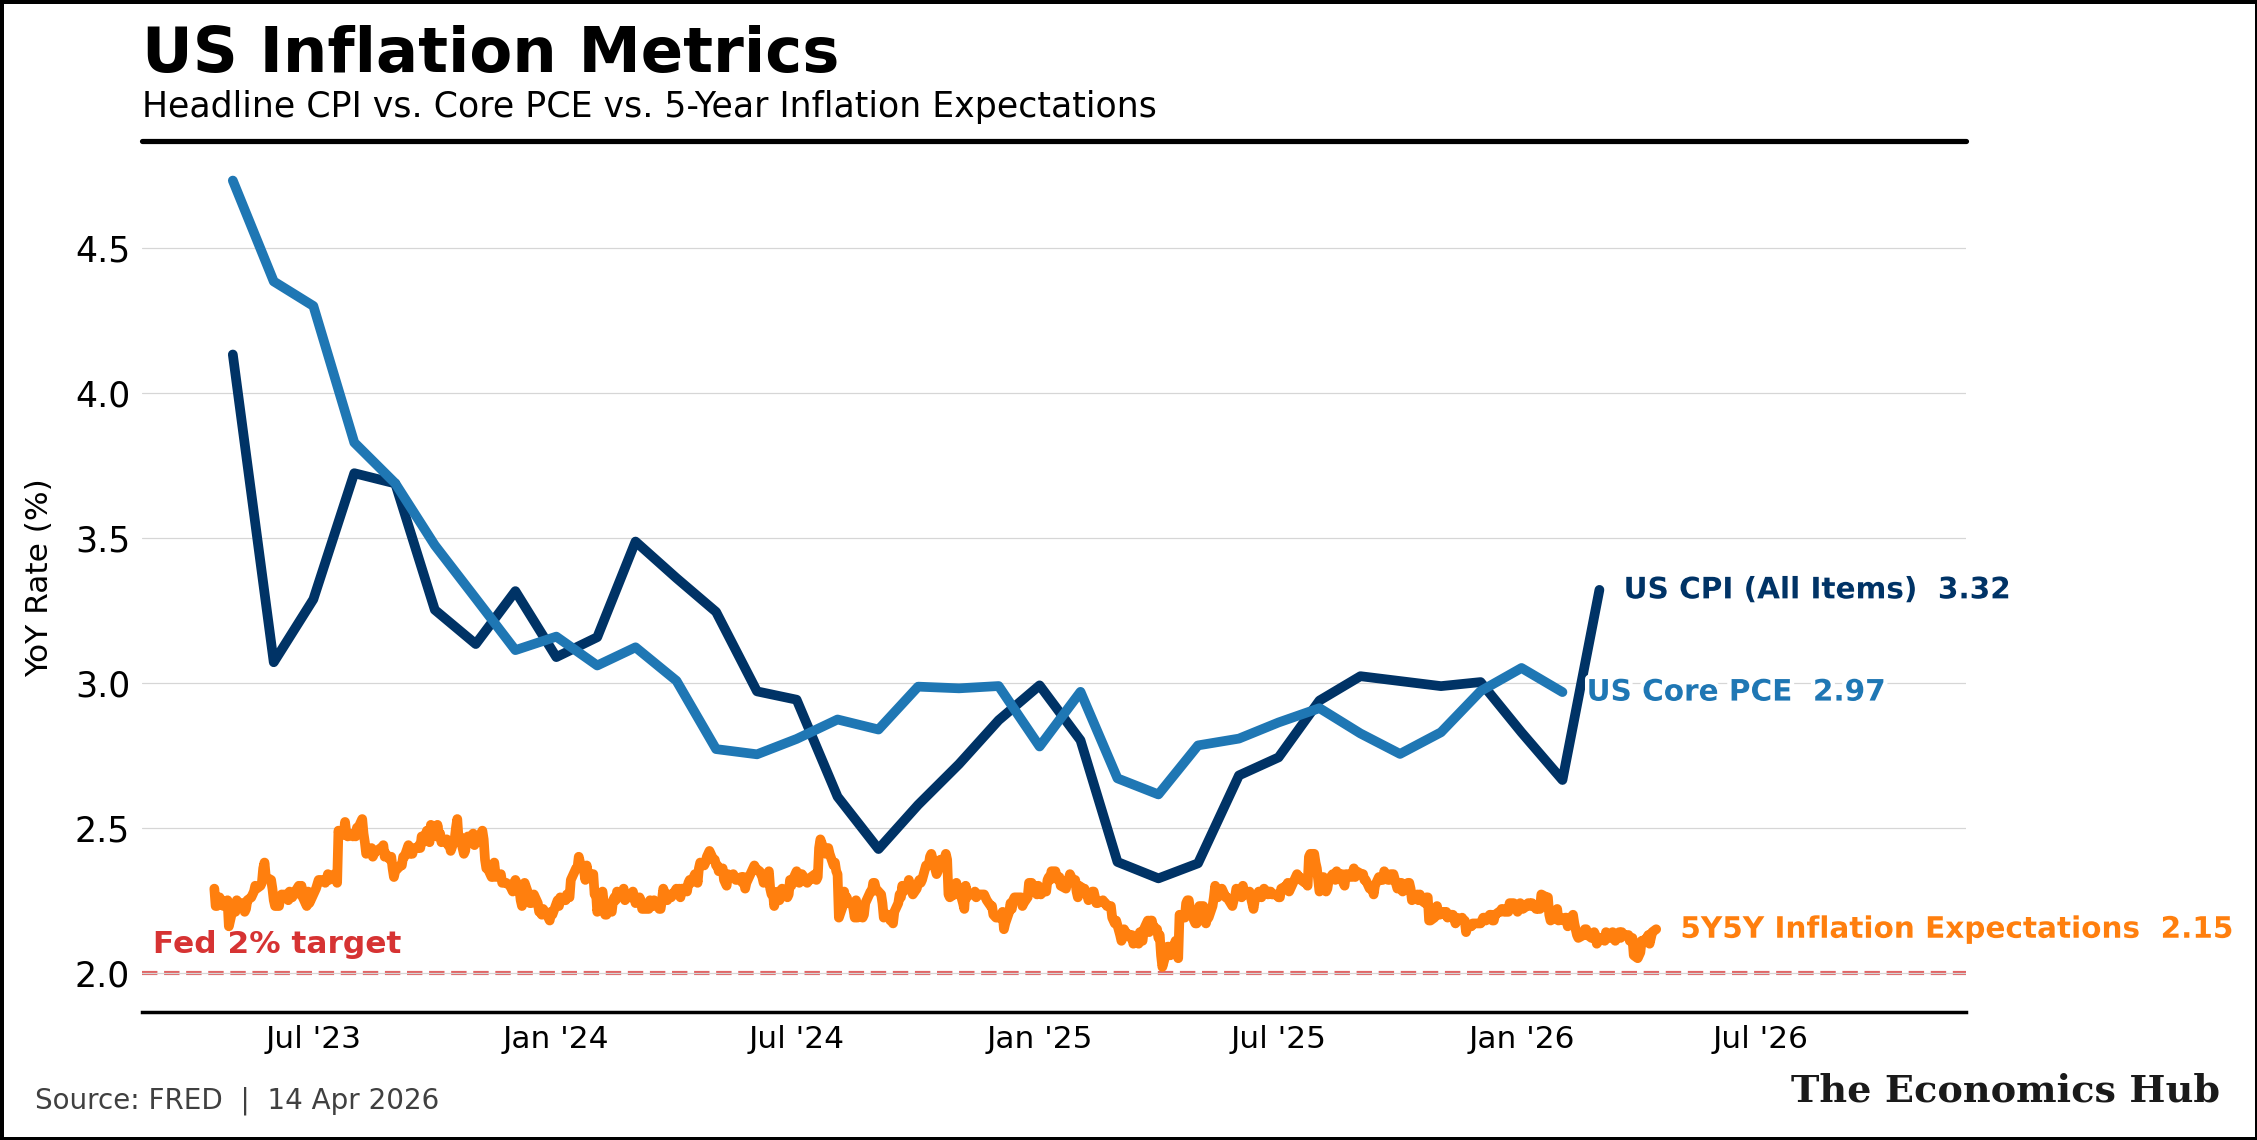
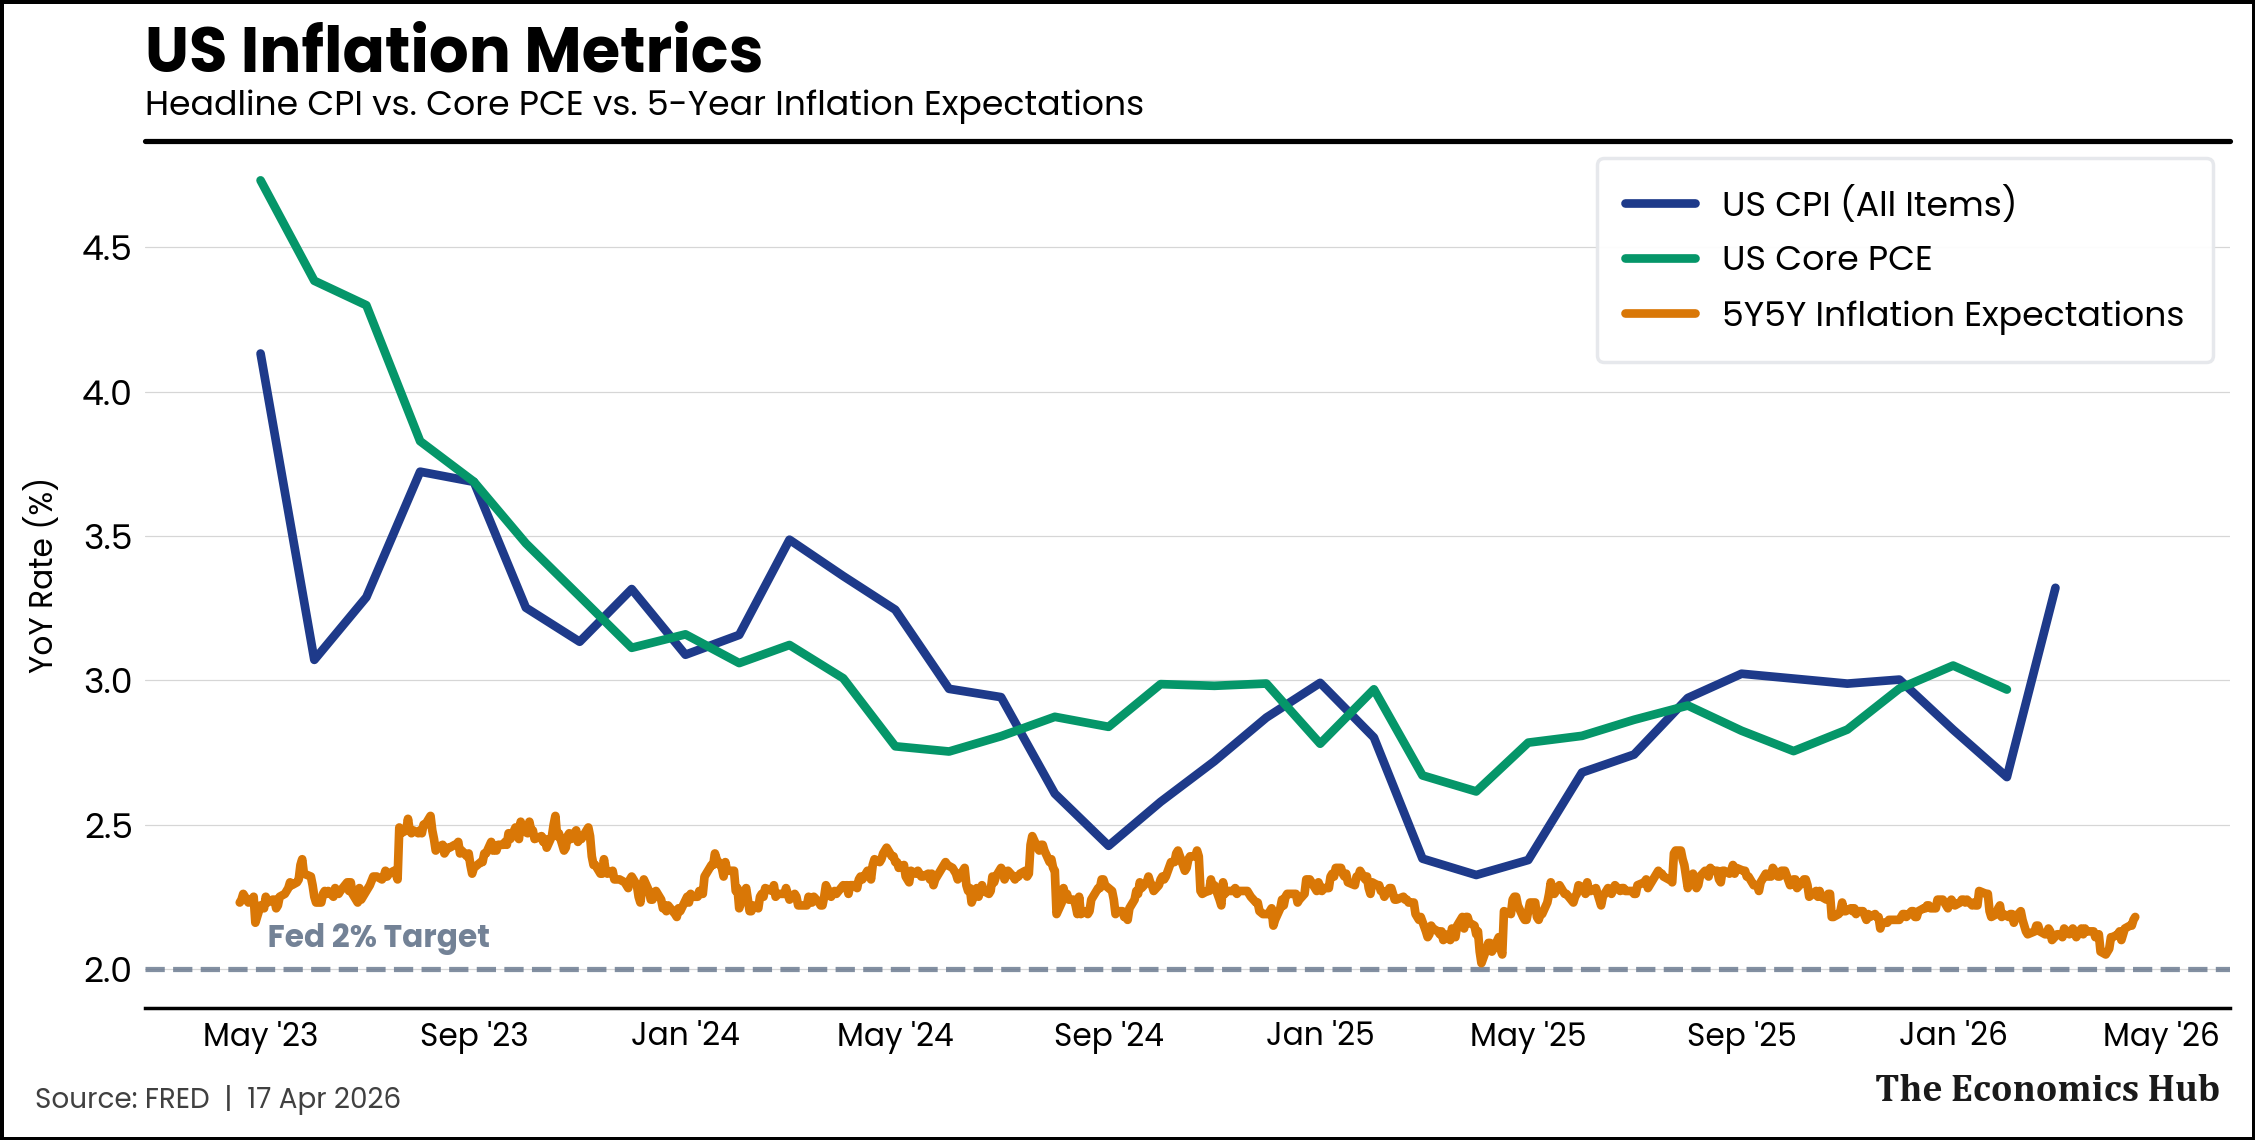
fix macro chart

diff --git a/generate_macro.py b/generate_macro.py
@@ -368,34 +368,60 @@ def _add_end_label(ax, dates, values, name, color):
 
 def chart_inflation(engine, output_dir, mode="dashboard"):
     EconStyle.apply_global_style()
-    # Use the standard wide template instead of the cramped 1x2 subplot
     fig, ax1 = EconStyle.create_figure(size="wide")
     fig.patch.set_linewidth(2)
     fig.patch.set_edgecolor('#000000')
 
+    # 1. Harmonized Color Palette
+    # Deep Blue (Headline), Emerald Green (Core PCE), Amber (Expectations)
+    # These colors are distinct, colorblind-friendly, and don't clash.
+    custom_colors = {
+        "us_cpi_yoy": "#1E3A8A",       
+        "us_core_pce": "#059669",      
+        "us_inflation_exp": "#D97706"  
+    }
+
+    first_date = None
+
     for ind_id in ["us_cpi_yoy", "us_core_pce", "us_inflation_exp"]:
+        if ind_id not in MACRO_INDICATORS: continue
         ind = MACRO_INDICATORS[ind_id]
         series = engine.get_transformed(ind_id)
         if series.empty: continue
+        
         dates, vals = series.index.to_pydatetime().tolist(), series.values
-        # Increased linewidth to 2.8 for better quality/visibility
-        ax1.plot(dates, vals, color=ind["color"], linewidth=2.8, solid_capstyle="round", zorder=3)
-        _add_end_label(ax1, dates, vals, ind["name"], ind["color"])
+        if first_date is None: first_date = dates[0]
 
-    # Target line styling
-    ax1.axhline(y=2.0, color=EconStyle.NEGATIVE, linewidth=1.2, linestyle="--", alpha=0.6, zorder=1)
-    ax1.text(ax1.get_xlim()[0], 2.05, " Fed 2% target", fontsize=9, fontweight="bold", color=EconStyle.NEGATIVE, alpha=0.8, va="bottom")
+        # Override the global dict color with our custom harmonized palette
+        color = custom_colors.get(ind_id, ind.get("color", "#000000"))
+        
+        # 2. Add labels directly to the plot call for the legend
+        ax1.plot(dates, vals, color=color, linewidth=2.5, solid_capstyle="round", zorder=4, label=ind["name"])
+
+    # 3. Refined Target Line
+    # Softened from bright red to a neutral slate grey so it doesn't distract from the data
+    target_color = "#64748B"
+    ax1.axhline(y=2.0, color=target_color, linewidth=1.5, linestyle="--", alpha=0.8, zorder=2)
+    
+    if first_date:
+        # Move the target text slightly right of the y-axis so it doesn't clip
+        ax1.text(first_date, 2.05, " Fed 2% Target", fontsize=9, fontweight="bold", color=target_color, alpha=0.9, va="bottom")
     
     _style_axis(ax1, ylabel="YoY Rate (%)")
     
-    # Clean up spines
+    # 4. Clean up spines
     for spine in ["top", "right", "left"]: 
         ax1.spines[spine].set_visible(False)
     ax1.spines["bottom"].set_visible(True)
     ax1.spines["bottom"].set_color(EconStyle.AXIS_COLOR)
     
-    # Add padding to the right for labels
-    ax1.set_xlim(ax1.get_xlim()[0], ax1.get_xlim()[1] + (ax1.get_xlim()[1] - ax1.get_xlim()[0]) * 0.15)
+    # 5. Add a clean, boxed legend (Upper Right)
+    # The semi-transparent white facecolor ensures it stays readable even if a line crosses behind it
+    ax1.legend(loc="upper right", frameon=True, facecolor="white", edgecolor="#E5E7EB", 
+               framealpha=0.95, fontsize=10, borderpad=0.8, labelspacing=0.6)
+
+    # Note: Removed the hardcoded X-axis padding from the old code 
+    # since we no longer need to make room for labels on the right edge.
 
     # Elite Narrative Titles
     _t, _s = MACRO_TITLES["inflation"][mode]
